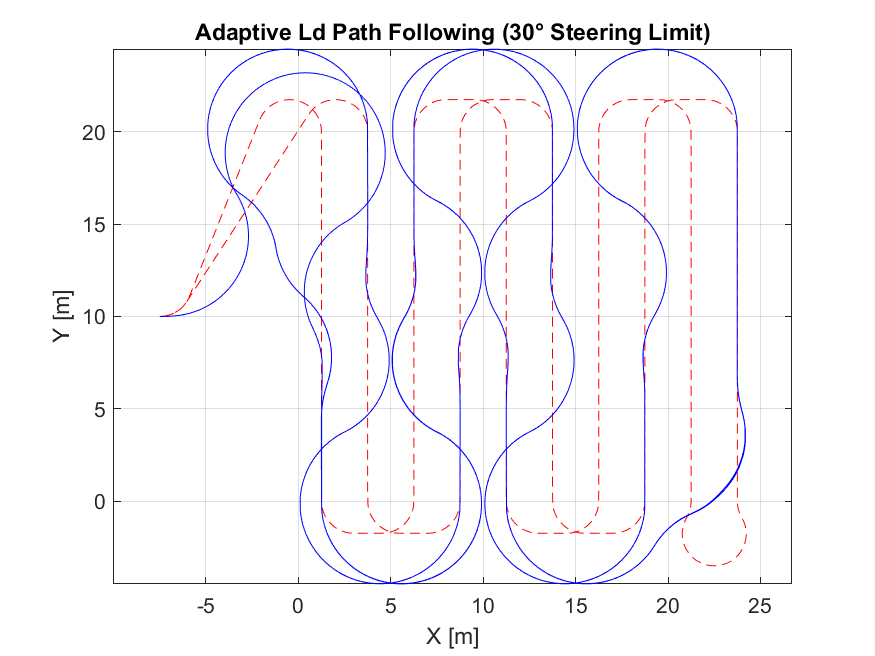
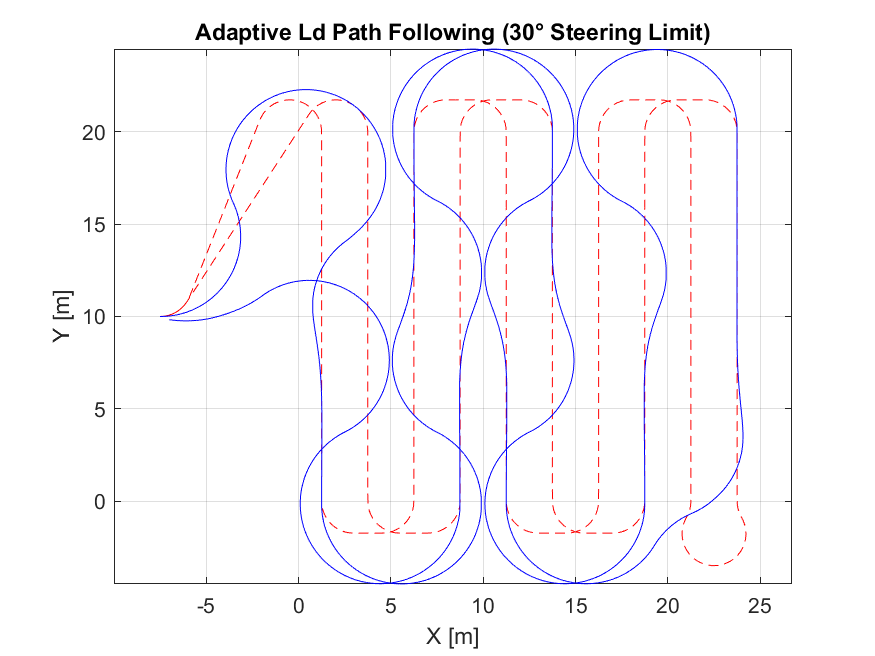
still working on part F.4

diff --git a/main/HW3/purePursuitSegmented.m b/main/HW3/purePursuitSegmented.m
@@ -1,131 +1,74 @@
-function [steer, cte, status] = purePursuitSegmented_diagnostic( ...
+function [steer, cte, status] = purePursuitSegmented( ...
         q, L, Ld_line, Ld_turn, ...
         path, segID, isTurnLink, guidedPoints, gamma_max, gamma_min)
-    % DIAGNOSTIC VERSION OF PURSUIT FUNCTION
-    x = q(1); y = q(2); th = q(3);
+    % SEGMENT-BOUNDED + DUAL-GUIDED-POINT OVERRIDE PURE PURSUIT
+    % Enhanced to ensure robot moves towards end point in final segments
+    
+    x  = q(1);  y  = q(2);  th = q(3);
     status = 0;
     
-    % persist variables
-    persistent curSeg prevDist nxSeg nxprevDist cycleDetectionCounter cycleDetectionPos cycleLockSwitch
+    % persist current & next segment and their previous guided-point distances
+    persistent curSeg prevDist nxSeg nxprevDist
     if isempty(curSeg)
-        curSeg = segID(1);
-        prevDist = Inf;
-        nxSeg = min(curSeg+1, max(segID));
+        curSeg     = segID(1);
+        prevDist   = Inf;
+        nxSeg      = min(curSeg+1, max(segID));
         nxprevDist = Inf;
-        cycleDetectionCounter = 0;
-        cycleDetectionPos = [x y];
-        cycleLockSwitch = false;
     end
     
     % 1) closest waypoint & cte
     diffs = path - [x y];
-    d2 = diffs(:,1).^2 + diffs(:,2).^2;
+    d2    = diffs(:,1).^2 + diffs(:,2).^2;
     [~, idx] = min(d2);
-    cte = sqrt(d2(idx));
+    cte      = sqrt(d2(idx));
     
-    % Log current segment and position for debugging
-    disp(['Current Position: [', num2str(x), ', ', num2str(y), '], Segment: ', num2str(curSeg)]);
-    disp(['Current Guided Point: [', num2str(guidedPoints(curSeg,1)), ', ', num2str(guidedPoints(curSeg,2)), ']']);
-    disp(['Distance to Guided Point: ', num2str(norm([x y] - guidedPoints(curSeg,:)))]);
-    
-    % CYCLE DETECTION: Check if robot is looping around a small area
-    if norm([x y] - cycleDetectionPos) < 0.5  % Robot is near a previously visited position
-        cycleDetectionCounter = cycleDetectionCounter + 1;
-        if cycleDetectionCounter > 50  % If this happens many times in a row
-            disp('*** CYCLE DETECTED! Robot is stuck in a loop ***');
-            disp(['Stuck between segment ', num2str(curSeg), ' and next segment']);
-            cycleLockSwitch = true;  % Emergency mode to escape cycle
-            % Force progress to next segment
-            if curSeg < max(segID)
-                disp('*** EMERGENCY: Forcing progress to next segment ***');
-                curSeg = curSeg + 1;
-                prevDist = Inf;
-                nxSeg = min(curSeg+1, max(segID));
-                nxprevDist = Inf;
-            end
-            cycleDetectionCounter = 0;
-        end
-    else
-        % Update position for cycle detection
-        cycleDetectionPos = [x y];
-        cycleDetectionCounter = 0;
-    end
-    
-    % 2) segment detection with detailed logging
+    % 2) detect segment change
     newSeg = segID(idx);
     if newSeg ~= curSeg
-        disp(['*** SEGMENT CHANGE DETECTED: ', num2str(curSeg), ' -> ', num2str(newSeg)]);
-        % Check if we're jumping backward
-        if newSeg < curSeg
-            disp('WARNING: Moving BACKWARD in segments!');
-        end
-        curSeg = newSeg;
-        prevDist = Inf;
-        nxSeg = min(curSeg+1, max(segID));
+        curSeg     = newSeg;
+        prevDist   = Inf;
+        nxSeg      = min(curSeg+1, max(segID));
         nxprevDist = Inf;
     end
     
-    % 3) distances to current & next guided points with detailed logging
-    gp = guidedPoints(curSeg, :);
-    nxgp = guidedPoints(nxSeg, :);
-    gpDist = norm([x y] - gp);
-    nxgpDist = norm([x y] - nxgp);
+    % 3) distances to current & next guided points
+    gp      = guidedPoints(curSeg, :);   % current guided point
+    nxgp    = guidedPoints(nxSeg,  :);   % next segment's guided point
+    gpDist  = norm([x y] - gp);
+    nxgpDist= norm([x y] - nxgp);
     
-    disp(['Distance to current guided point: ', num2str(gpDist)]);
-    disp(['Distance to next guided point: ', num2str(nxgpDist)]);
-    disp(['Previous distance to current guided point: ', num2str(prevDist)]);
-    
-    if gpDist > prevDist
-        disp('MOVING AWAY from current guided point');
-    else
-        disp('Moving TOWARD current guided point');
-    end
-    
-    % 4) override decisions with diagnostic output
+    % 4) prepare end point and last segment info
     lastSeg = max(segID);
-    end_point = [guidedPoints(end,1), guidedPoints(end,2)];
+    end_point = [guidedPoints(end,1), guidedPoints(end,2)]; % The end point coordinates [x, y]
     
-    % Special handling if we detected a cycle
-    if cycleLockSwitch
-        % CYCLE ESCAPE MODE: Force direct movement to next guided point
-        nextSegPoint = guidedPoints(min(curSeg+1, lastSeg), :);
-        vecAng = atan2(nextSegPoint(2)-y, nextSegPoint(1)-x);
-        steer = wrapToPi(vecAng - th);
-        steer = max(min(steer, gamma_max), gamma_min);
-        status = 2;  % Special status for cycle escape
-        disp('*** CYCLE ESCAPE MODE: Direct steering to next guided point ***');
-        
-        % Reset cycle lock after some time
-        if norm([x y] - nextSegPoint) < 2.0
-            cycleLockSwitch = false;
-            disp('*** CYCLE ESCAPE MODE DEACTIVATED ***');
-        end
-    % Regular logic with detailed logging
-    elseif gpDist > prevDist && gpDist > 10 && nxgpDist > nxprevDist && curSeg < lastSeg
-        % Original override condition 
+    % Determine if we're in the last two segments
+    isNearEndSegments = (curSeg >= lastSeg - 1);
+    
+    % 5) Steering logic with enhanced end-point convergence
+    
+    if gpDist > prevDist && nxgpDist > nxprevDist && gpDist > 10 && curSeg < lastSeg
+        % steer directly at current guided point
         vecAng = atan2(gp(2)-y, gp(1)-x);
-        steer = wrapToPi(vecAng - th);
-        steer = max(min(steer, gamma_max), gamma_min);
-        status = 1;
-        disp('OVERRIDE MODE: Steering directly to guided point');
-    elseif curSeg == lastSeg && gpDist > prevDist
-        % Last segment condition
+        steer  = wrapToPi(vecAng - th);
+        steer  = max(min(steer, gamma_max), gamma_min);
+        status = 1;      
+     elseif isNearEndSegments
+        % Prioritize direct path to end point in last two segments
         vecAng = atan2(end_point(2)-y, end_point(1)-x);
-        steer = wrapToPi(vecAng - th);
-        steer = max(min(steer, gamma_max), gamma_min);
+        steer  = wrapToPi(vecAng - th);
+        steer  = max(min(steer, gamma_max), gamma_min);
         status = 1;
-        disp('LAST SEGMENT: Steering directly to end point');
+    
     else
-        % Regular pure pursuit
+        % 6) regular segment‐bounded pure pursuit
+        % choose Ld
         if isTurnLink(curSeg) && curSeg ~= lastSeg
             Ld = Ld_turn;
-            disp('Using TURN lookahead distance');
         else
             Ld = Ld_line;
-            disp('Using LINE lookahead distance');
         end
         
-        % find segment bounds with diagnostic output
+        % find segment bounds
         firstIdx = idx;
         while firstIdx>1 && segID(firstIdx-1)==curSeg
             firstIdx = firstIdx-1;
@@ -135,8 +78,6 @@ function [steer, cte, status] = purePursuitSegmented_diagnostic( ...
             lastIdx = lastIdx+1;
         end
         
-        disp(['Segment bounds: ', num2str(firstIdx), ' to ', num2str(lastIdx)]);
-        
         % arc‐length lookahead
         s = 0; goalIdx = idx;
         while goalIdx<lastIdx && s < Ld
@@ -145,23 +86,15 @@ function [steer, cte, status] = purePursuitSegmented_diagnostic( ...
         end
         goal = path(goalIdx,:);
         
-        disp(['Pure pursuit target: [', num2str(goal(1)), ', ', num2str(goal(2)), ']']);
-        
         % compute steering
         dx = goal(1)-x; dy = goal(2)-y;
-        local_y = -sin(th)*dx + cos(th)*dy;
-        curvature = 2 * local_y / (Ld^2);
-        steer = atan(L * curvature);
-        steer = max(min(steer, gamma_max), gamma_min);
-        
-        disp(['Pure pursuit steering: ', num2str(rad2deg(steer)), ' degrees']);
+        local_y  = -sin(th)*dx + cos(th)*dy;
+        curvature= 2 * local_y / (Ld^2);
+        steer    = atan(L * curvature);
+        steer    = max(min(steer, gamma_max), gamma_min);
     end
     
-    % 6) update previous distances
-    prevDist = gpDist;
+    % 7) update previous distances
+    prevDist   = gpDist;
     nxprevDist = nxgpDist;
-    
-    % Final steering output
-    disp(['Final steering command: ', num2str(rad2deg(steer)), ' degrees']);
-    disp('------------------------');
 end

diff --git a/main/HW3/EBS221_Assignment3.m b/main/HW3/EBS221_Assignment3.m
@@ -394,7 +394,7 @@ time_vec = 0:DT:T-DT;
 
 % Vehicle and Controller Parameters
 L = 2.5;               % wheelbase
-Ld_line = 1.0;         % look-ahead distance
+Ld_line = 2.0;         % look-ahead distance
 Ld_turn = 0.2;
 gamma_max = deg2rad(30);  % CHANGED: maximum steering angle to 30 degrees
 gamma_min = -gamma_max;
@@ -461,7 +461,7 @@ end
 rms_cte = sqrt(mean(cte_history(:,1).^2));
 disp(['Segment-bounded RMS CTE (30-deg limit): ', num2str(rms_cte), ' m']);
 
-status = mkdir("results\E");
+[~, ~] = mkdir("results\E");
 % save figures
 figure;
 plot(waypoints(:,1), waypoints(:,2), 'r--'); hold on;
@@ -557,10 +557,19 @@ x = [x_start, x_lower, x_upper, x_end];
 y = [y_start, y_lower, y_upper, y_end];
 
 % Plot for verification
-figure; plot(x, y, 'ko'); text(x + 0.2, y + 0.2, string(1:2*N+2)); axis equal;
-title('Node Layout Verification (30° Steering Limit)'); xlabel('X [m]'); ylabel('Y [m]');
-[~, ~] = mkdir('results\F');
-saveas(gcf, "results\F\node_layout_30deg.png")
+figure; hold on; axis equal
+plot(x, y, 'ko')
+dx = 0.50 * ones(size(x));          % default shift in x
+dy = 0.50 * ones(size(y));          % default shift in y
+% put the first label above-left, last label below-right
+dx(1)   = 0.75;   dy(1)   =  1.0;   % start node
+dx(end) =  0.75;   dy(end) = -1.0;   % end   node
+text(x + dx, ...
+     y + dy, ...
+     string(1:numel(x)), "HorizontalAlignment","center");
+title('Node Layout Verification'); xlabel('X [m]'); ylabel('Y [m]');
+xlim([-8 27])
+
 
 %% F.2 - Rebuild Cost Matrix with new minimum turning radius
 HUGE = 1e6;                       % "impossible" cost
@@ -749,9 +758,15 @@ for k = 1:numLinks
     end
 end
 
+N = size(guidedPoints,1);
+labels = string(1:N).';          % now an N×1 column vector
 % Plot the generated waypoints
 figure; plot(waypoints(:,1), waypoints(:,2), 'b.-'); axis equal; hold on;
-plot(guidedPoints(:,1), guidedPoints(:,2), 'o')
+plot(guidedPoints(:,1), guidedPoints(:,2), 'o');
+text( guidedPoints(:,1), ...
+      guidedPoints(:,2), ...
+      labels, ...
+      'HorizontalAlignment','center' );
 title('Generated Waypoints and Guided Points (30° Steering Limit)');
 xlabel('X [m]'); ylabel('Y [m]');
 legend("Waypoints", "Guided Points", Location="best")
@@ -769,7 +784,7 @@ time_vec = 0:DT:T-DT;
 
 % Vehicle and Controller Parameters
 L = 2.5;               % wheelbase
-Ld_line = 0.8;         % look-ahead distance
+Ld_line = 2.0;         % look-ahead distance
 Ld_turn = 0.5;
 gamma_max = deg2rad(30);  % 30 degree steering limit
 gamma_min = -gamma_max;
